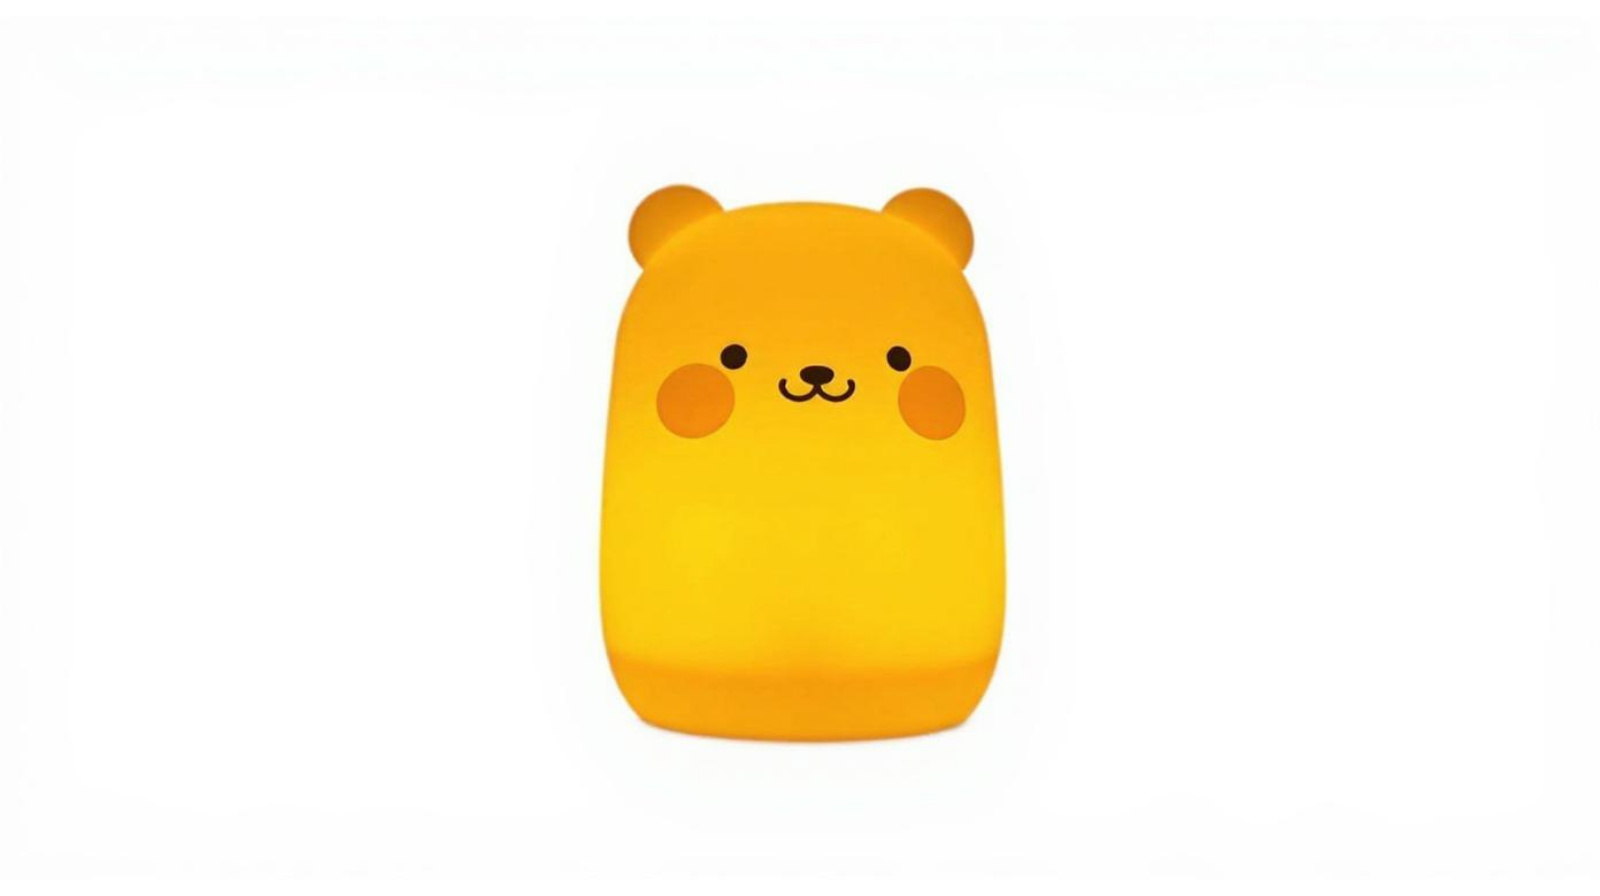
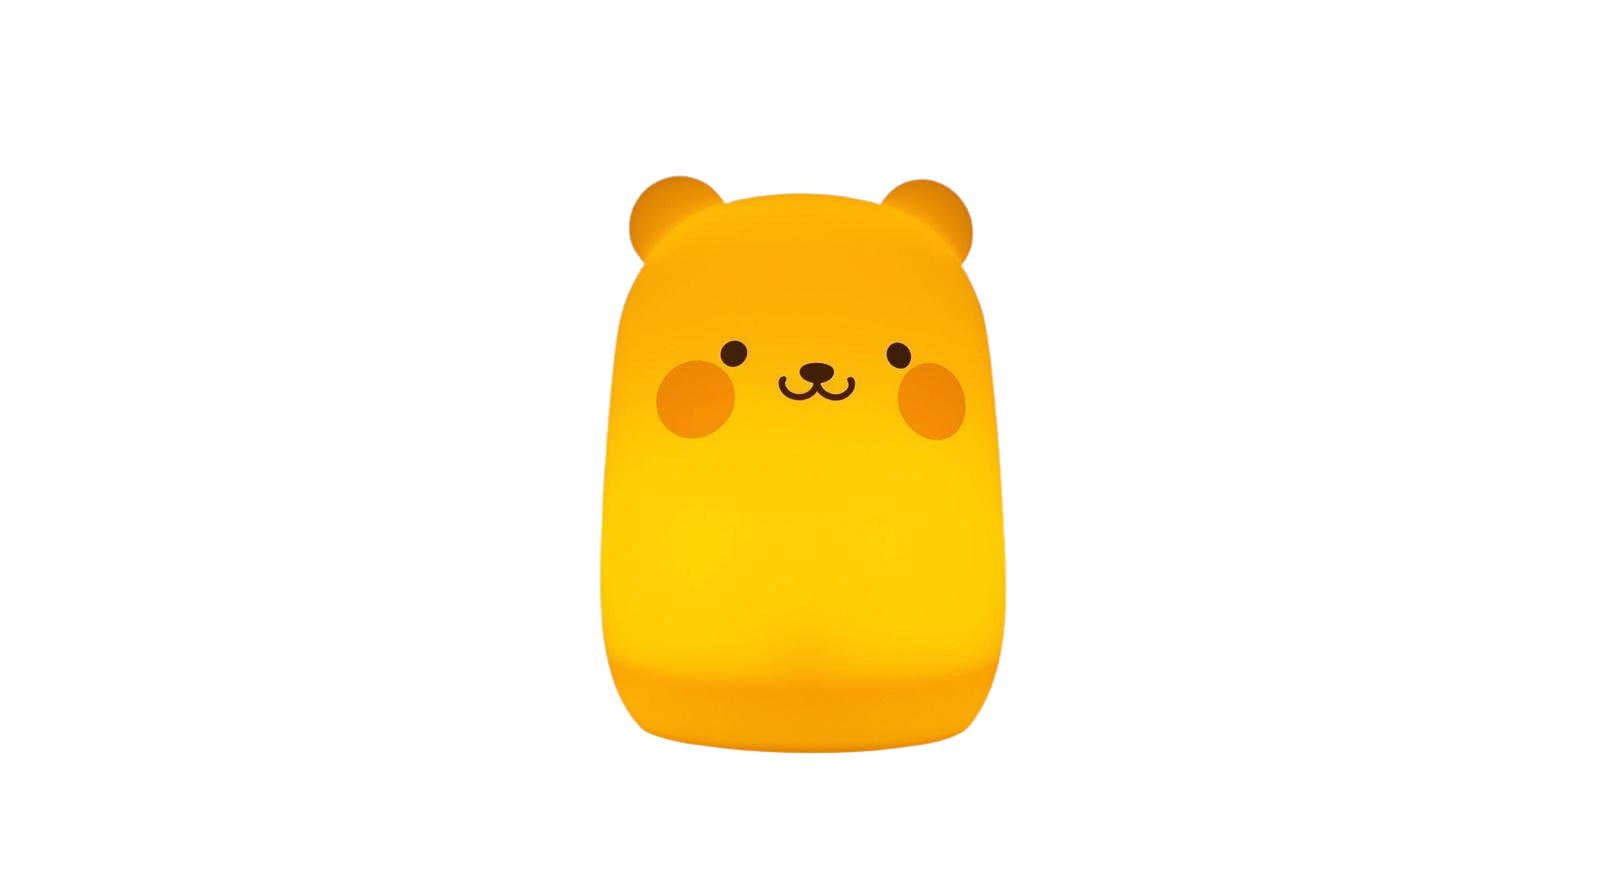
Større ikoner og lys lilla tåteflaske og bleie

diff --git a/app/components/sovn/sovn.tsx b/app/components/sovn/sovn.tsx
@@ -75,7 +75,7 @@ const TidslinjeIkon = ({ type, mørk = false }: { type: string; mørk?: boolean 
   );
   if (type === 'amming') return (
     <div style={{ width: size, height: size, borderRadius: '50%', backgroundColor: mørk ? '#3A2A1E' : '#F2E4D8', display: 'flex', alignItems: 'center', justifyContent: 'center' }}>
-      <img src="/tateflaske.png" alt="amming" style={{ width: '22px', height: '22px', objectFit: 'contain', mixBlendMode: 'multiply' }} />
+      <img src="/tateflaske.png" alt="amming" style={{ width: '32px', height: '32px', objectFit: 'contain', filter: 'brightness(0) invert(1) sepia(1) saturate(0.3) hue-rotate(220deg)' }} />
     </div>
   );
   if (type === 'oppvåkning') return (
@@ -691,7 +691,7 @@ export default function Sovn({ bruker }: Props) {
                 <div style={{ fontSize: '10px', fontFamily: 'var(--font-inter)', color: '#8A8FA8' }}>Ammet</div>
               </button>
               <button onClick={() => {}} style={{ display: 'flex', flexDirection: 'column', alignItems: 'center', gap: '6px', padding: '12px 6px', borderRadius: '14px', border: '1px solid rgba(255,255,255,0.08)', backgroundColor: 'rgba(255,255,255,0.04)', cursor: 'pointer' }}>
-                <img src="/bleie.png" alt="bleie" style={{ width: '26px', height: '26px', objectFit: 'contain' }} />
+              <img src="/bleie.png" alt="bleie" style={{ width: '32px', height: '32px', objectFit: 'contain', filter: 'brightness(0) invert(1) sepia(1) saturate(0.3) hue-rotate(220deg)' }} />
                 <div style={{ fontSize: '10px', fontFamily: 'var(--font-inter)', color: '#8A8FA8' }}>Bleieskift</div>
               </button>
               <button onClick={() => {}} style={{ display: 'flex', flexDirection: 'column', alignItems: 'center', gap: '6px', padding: '12px 6px', borderRadius: '14px', border: '1px solid rgba(255,255,255,0.08)', backgroundColor: 'rgba(255,255,255,0.04)', cursor: 'pointer' }}>
@@ -710,15 +710,15 @@ export default function Sovn({ bruker }: Props) {
             <div style={{ fontSize: '13px', fontFamily: 'var(--font-plus-jakarta)', color: '#E8DDD0', fontWeight: '600', marginBottom: '12px' }}>Skap ro</div>
             <div style={{ display: 'grid', gridTemplateColumns: 'repeat(3, 1fr)', gap: '10px' }}>
               <button onClick={() => setVisLydPanel(true)} style={{ display: 'flex', flexDirection: 'column', alignItems: 'center', gap: '8px', padding: '16px 8px', borderRadius: '16px', border: '1px solid rgba(255,255,255,0.08)', backgroundColor: 'rgba(255,255,255,0.06)', cursor: 'pointer' }}>
-                <img src="/lydbolge.png" alt="lyder" style={{ width: '48px', height: '48px', objectFit: 'contain' }} />
+              <img src="/lydbolge.png" alt="lyder" style={{ width: '64px', height: '64px', objectFit: 'contain' }} />
                 <div style={{ fontSize: '11px', fontFamily: 'var(--font-inter)', color: '#C4A882' }}>Lyder</div>
               </button>
               <button onClick={() => setVisNattlys(true)} style={{ display: 'flex', flexDirection: 'column', alignItems: 'center', gap: '8px', padding: '16px 8px', borderRadius: '16px', border: '1px solid rgba(255,255,255,0.08)', backgroundColor: 'rgba(255,255,255,0.06)', cursor: 'pointer' }}>
-                <img src="/nattlampe.png" alt="nattlys" style={{ width: '48px', height: '48px', objectFit: 'contain' }} />
+              <img src="/nattlampe.png" alt="nattlys" style={{ width: '64px', height: '64px', objectFit: 'contain' }} />
                 <div style={{ fontSize: '11px', fontFamily: 'var(--font-inter)', color: '#C4A882' }}>Nattlys</div>
               </button>
               <button onClick={() => setVisPust(true)} style={{ display: 'flex', flexDirection: 'column', alignItems: 'center', gap: '8px', padding: '16px 8px', borderRadius: '16px', border: '1px solid rgba(255,255,255,0.08)', backgroundColor: 'rgba(255,255,255,0.06)', cursor: 'pointer' }}>
-                <img src="/pusteboble.png" alt="pust" style={{ width: '48px', height: '48px', objectFit: 'contain' }} />
+              <img src="/pusteboble.png" alt="pust" style={{ width: '64px', height: '64px', objectFit: 'contain' }} />
                 <div style={{ fontSize: '11px', fontFamily: 'var(--font-inter)', color: '#C4A882' }}>Pust med meg</div>
               </button>
             </div>